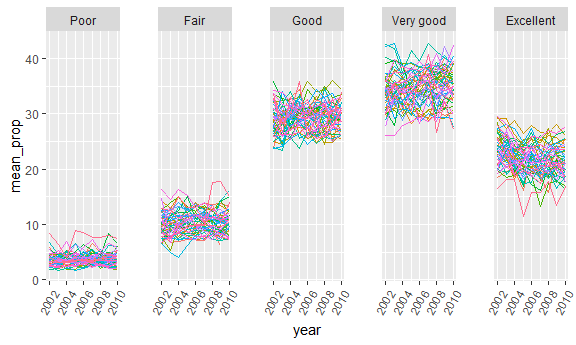
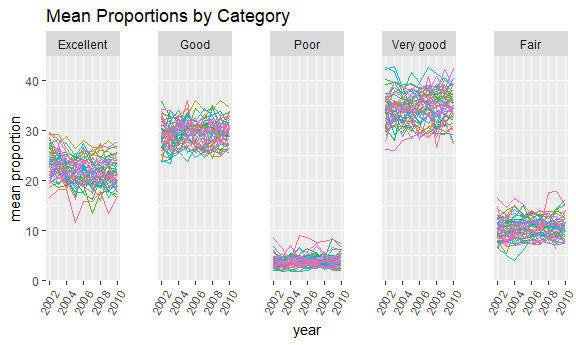
proofreading

diff --git a/p8105_hw3_al3851.md b/p8105_hw3_al3851.md
@@ -23,17 +23,21 @@ knitr::opts_chunk$set(
 Data Cleaning
 -------------
 
+I am filtering to get just overall health questions and am ordering factor levels for the responses. The I am renaimgin locationabbr "state".
+
 ``` r
 brfss_df = brfss_smart2010 %>%
   janitor::clean_names() %>%
   filter(topic == "Overall Health") %>%
   filter(response %in% c("Excellent", "Good", "Poor", "Very good", "Fair")) %>%
-  mutate(response = factor(response, levels = c("Poor", "Fair", "Good", "Very good", "Excellent"))) %>%
+  mutate(response = factor(response, levels = c("Excellent", "Good", "Poor", "Very good", "Fair"))) %>%
   rename("state" = locationabbr)
 ```
 
 Number Locations/state
 ======================
+
+I am grouping by state to get the number of location per state
 
 ``` r
 locations_sum_df = brfss_df %>%
@@ -60,6 +64,8 @@ CT, MT, NH, NM, OR, TN, and Utah all had responses from 7 locations. 7 locations
 Spaghetti Plot
 ==============
 
+After I group by state and year, I am just keeping 1 locationdesc from each group so I can get the number of locationdesc per year per state.
+
 ``` r
 locations_df = brfss_df %>%
   group_by(state, year) %>%
@@ -81,6 +87,8 @@ This Spaghetti Plot shows that Florida was an outlier in the number of locations
 Excellent Table
 ===============
 
+I am getting the mean proportion of excellent responses in 2002, 2006, and 2010
+
 ``` r
 brfss_excellent_tab = brfss_df %>%
   filter(year %in% c(2002,2006, 2010), state == "NY", response == "Excellent") %>%
@@ -90,10 +98,10 @@ brfss_excellent_tab = brfss_df %>%
 
 The mean proportion of excellent responses decreased from 2002 to 2006, but then it stayed constant.
 
-Make a table showing, for the years 2002, 2006, and 2010, the mean and standard deviation of the proportion of “Excellent” responses across locations in NY State.
-
 Average Proportion
 ==================
+
+I am rotating the axis labels, so the years do not intersect
 
 ``` r
 brfss_prop_av = brfss_df %>%
@@ -103,13 +111,16 @@ brfss_prop_av = brfss_df %>%
 ggplot(brfss_prop_av, aes( x = year, y = mean_prop, color = state)) +
   geom_line() +
   facet_grid(~response) +
+  labs(title = "Mean Proportions by Category",
+       x = "year",
+       y = "mean proportion") +
   scale_color_discrete(guide = FALSE) +
   scale_x_continuous(breaks = scales::pretty_breaks(n = 4)) +
   theme(panel.margin = unit(1, "cm")) +
   theme(axis.text.x = element_text(angle = 60, hjust = 1))
 ```
 
-<img src="p8105_hw3_al3851_files/figure-markdown_github/average proportion-1.png" width="90%" />
+<img src="p8105_hw3_al3851_files/figure-markdown_github/average proportion-1.png" width="90%" /> Scores at least as high as good were more common than fair and poor scores. Very good tended to be the most popular. Excellent and very good scores also had the most variability.
 
 Problem 2
 =========
@@ -122,6 +133,8 @@ There are 1384617 rows and 15 columns. Each observation is identified by the col
 
 Popular Aisle
 =============
+
+I am filtering by aisle\_id to get the number of items orderd in each aisle
 
 ``` r
 n_aisles = length(unique(instacart$aisle))
@@ -143,10 +156,12 @@ ggplot(aisle_table, aes(x = aisle_id, y = n_items, color = department)) +
 
 <img src="p8105_hw3_al3851_files/figure-markdown_github/popular items-1.png" width="90%" />
 
-There are 134 aisles. I labeled the most popular and least popular aisles, since too many labels would make the plot impossible to read. I also ordered by aisle number because there was no way to put aisle name on the axis. I colored by department. Popular aisles were fresh fruits and fresh vegetables, while less popular items were beauty and kitchen supplies.
+There are 134 aisles. I labeled the most popular items, since too many labels would make the plot impossible to read. I also ordered by aisle number because there was no way to put aisle name on the axis. I colored by department. Popular aisles were fresh fruits and fresh vegetables and packaged vegetables and fruits.
 
 Popular Items
 =============
+
+I am just including baking ingredient, dog food care, and packaged vegetables fruits aisles. The I am getting the product count for each product in each aisle and am only including the items that are the most popular in their respective aisle.
 
 ``` r
 item_count = instacart_df %>% 
@@ -160,33 +175,34 @@ item_count = instacart_df %>%
   select(aisle, product_name, product_count)
 ```
 
-Organic baby spinach is the most popular item of these most popular items in these three isles.
+Organic baby spinach is the most popular item of these most popular items in these three isles with 9784 orders.
 
 Mean Hour of Orders
 ===================
 
+I am getting the mean hour of orders for both Pink Lady Apples and Coffee Ice Cream for each day of the week and then will compare them.
+
 ``` r
 mean_hour_df = instacart_df %>%
   filter(product_name %in% c("Pink Lady Apples", "Coffee Ice Cream")) %>%
-  group_by(order_dow) %>%
+  group_by(order_dow, product_name) %>%
   summarize(mean_hour = mean(order_hour_of_day)) %>%
+  ungroup() %>%
   mutate(order_dow = as.character(order_dow)) %>%
   mutate(order_dow = recode(order_dow, "0" = "Sunday", "1" = "Monday", "2" = "Tuesday", "3" = "Wednesday", "4" = "Thursday", "5" = "Friday", "6" = "Saturday")) %>%
-  spread(key = order_dow, value = mean_hour)
-
-rbind(mean_hour_df$order_dow, mean_hour_df$mean_hour)
-
-mean_hour_switch_df = as.tibble(mean_hour_df$mean_hour)
-colnames(mean_hour_switch_df) = mean_hour_df$order_dow
+  spread(key = order_dow, value = mean_hour) %>%
+  select(product_name, "Sunday", "Monday", "Tuesday","Wednesday", "Thursday", "Friday", "Saturday", "Sunday")
 ```
 
-The mean hour for every day of the week is in the early afternoon.
+The mean hour for every day of the week late morning - early afternoon. The mean hours are similar over the weekend for the two products but they differ by at least three hours on Monday, Tuesday, and Thursday. Coffee ice cream is ordered much later than Pink Lady Apple on those days.
 
 Problem 3
 =========
 
 ny\_noaa Cleaning
 =================
+
+I am converting tmin and tmax to Farenheit and am converting precipitation and snow to inches. I an also extracting the year and the month from the date.
 
 ``` r
 ny_noaa_df = ny_noaa %>%
@@ -198,12 +214,12 @@ ny_noaa_df = ny_noaa %>%
   mutate(prcp = (as.numeric(prcp) / 100) / 2.54)
 ```
 
-The ny\_noaa dataframe is 2595176 rows by 10. After converting units, the key variables are the station identification number, the date the weather was recorded, the precipitation (inches) recorded, snow depth (inches) recorded, snowfall recorded (inches), minimum temperature(degrees farenheit) and maximum temperature (degrees farenheit). The fact that there is so much missing data may negatively affect any analysis, since so many stations will be unrepresented in plots and calculations for estimates. For example, if data is missing from stations that get very hot, estimates for mean maximum temperature will be too low.
+The ny\_noaa dataframe is 2595176 rows by 10. After converting units, the key variables are the station identification number, the date the weather was recorded, the precipitation (inches) recorded, snow depth (inches) recorded, snowfall recorded (inches), minimum temperature(degrees farenheit) and maximum temperature (degrees farenheit). The fact that there is so much missing data may negatively affect any analysis, since so many stations will be unrepresented in plots and calculations for estimates. For example, if these stations that do not report have certain commonalities, data could be misleading. What if stations that do not report tend to have worse conditions and get much hotter than other stations?
 
 Average Maximum Temperatures Per Station
 ========================================
 
-I am grouping by station id, year, and month to get the average maximum temperature for each station in each year in both the months july and january
+I am grouping by station id, year, and month to get the average maximum temperature for each station in each year in both the months July and January
 
 ``` r
 average_max_df = ny_noaa_df %>%
@@ -239,7 +255,7 @@ ggplot(ny_noaa_df, aes(x = tmin, y = tmax)) +
 
 <img src="p8105_hw3_al3851_files/figure-markdown_github/t max min-1.png" width="90%" />
 
-As expected, t\_max is positively associated with t\_min. The relationship between t\_max and t\_min looks approximately linear. The most densly distributed minimum temperatures occur between about 10 and 60 degrees Farenheit and the most densly distributed maximum temperatures occur between 25 and 80 degrees Farenheit. Some areas of density do not make sense. For example, there is one hexagon where minimum temperature is around -10 degrees Farenheit and the maximum temperature is about 135 degrees Farenheit. I searched for this observation or observations in the dataframe, and a situation like this was recorded on January 28, 2005. How is it possible that a station became so hot and so cold on this day in January? Was there a fire at some point in the day in this station?
+As expected, t\_max is positively associated with t\_min. The relationship between t\_max and t\_min looks approximately linear. The most densly distributed minimum temperatures occur between about 10 and 60 degrees Farenheit and the most densly distributed maximum temperatures occur between 25 and 80 degrees Farenheit. Some areas of density do not make sense. For example, there is one hexagon where minimum temperature is around -10 degrees Farenheit and the maximum temperature is about 135 degrees Farenheit. I searched for this observation or observations in the dataframe, and a situation like this was recorded on January 28, 2005. How is it possible that a station became so hot and so cold on this day in January?
 
 snowfall
 ========
@@ -249,7 +265,7 @@ ny_noaa_df %>%
   filter(!is.na(snow)) %>%
   filter(snow > 0 & snow < 100) %>%
   ggplot(aes(x = year, y = snow)) +
-  geom_hex(bins = 80) +
+  geom_point() +
   labs(title = "Snowfall between 1981 and 2010",
        x = "year",
        y = "snowfall (inches)")
@@ -257,4 +273,4 @@ ny_noaa_df %>%
 
 <img src="p8105_hw3_al3851_files/figure-markdown_github/snowfall-1.png" width="90%" />
 
-I chose to use geom\_hex for this plot as well because it shows the large concentration of very small snowfalls. With geom\_point snowfalls around 10 inches looked just as common as snowfalls very close to zero inches. In this plot I made the bins a smaller size, so that years would be separted. This plot shows that snowfall above 35 inches was rare.
+I chose to use geom\_hex for this plot as well because it shows the large concentration of very small snowfalls. With geom\_point, snowfalls of 10 inches looked just as common as snowfalls very close to zero inches. In this plot I made the bins a smaller size, so that years would be separted. This plot shows that snowfall above 35 inches was rare.
